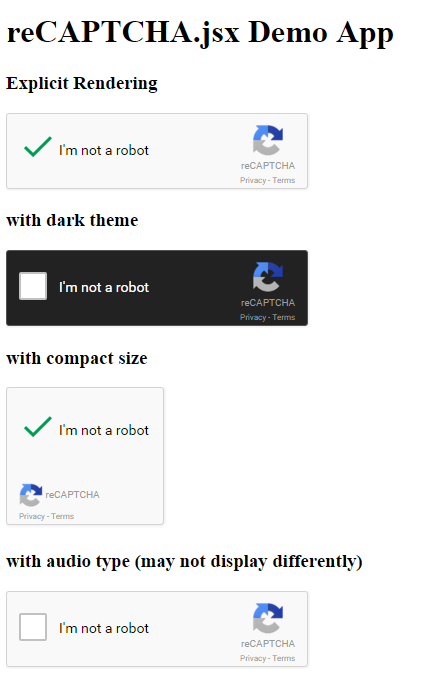
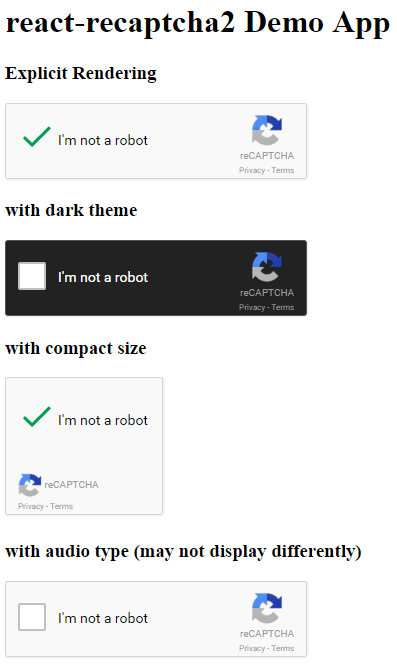
Fix old project name in code

diff --git a/demo/src/demo_app.jsx b/demo/src/demo_app.jsx
@@ -10,7 +10,7 @@ class DemoApp extends React.Component {
     render() {
         return (
             <div>
-                <h1>reCAPTCHA.jsx Demo App</h1>
+                <h1>react-recaptcha2 Demo App</h1>
 
                 <h3>Explicit Rendering</h3>
                 <ReCaptcha id="demo_recaptcha" render="explicit" sitekey="6Ldi-wcTAAAAAEAiAJ9bfHL3-SCdvD4xAxv0Wl-n"/>

diff --git a/demo/demo.html b/demo/demo.html
@@ -2,7 +2,7 @@
 <html lang="en">
     <head>
         <meta charset="UTF-8">
-        <title>ReCapatcha.jsx Demo</title>
+        <title>react-recaptcha2 Demo</title>
 
         <script type="application/javascript"
                 src="https://cdnjs.cloudflare.com/ajax/libs/react/0.14.3/react.js"></script>

diff --git a/demo/dist/recaptcha.js b/demo/dist/recaptcha.js
@@ -120,7 +120,7 @@
 	            React.createElement(
 	                'h1',
 	                null,
-	                'reCAPTCHA.jsx Demo App'
+	                'react-recaptcha2 Demo App'
 	            ),
 	            React.createElement(
 	                'h3',
